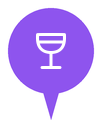
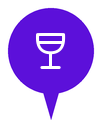
Nightlife, focus and fun pulled apart
After cafés and eats, the owner settled the next closest kinds. Measured
in CIEDE2000, taking the worst of normal, deuteranopic and protanopic
vision:

- Nightlife and focus dots were 1.6 apart, focus and fun 1.7, and
  nightlife and fun 2.6.
- The nightlife and focus pins were 1.8 apart.

Their hues stay, because they were solved against the company chips in
`trip.ts`. Lightness and saturation were searched over every step that
keeps a dot between 2.1 and 4.1:1 on white (the others' range) and at
3.2 or more on navy. Nightlife goes deepest because it is the night,
focus lighter, and fun between:

|          | nightlife | focus   | fun     | nearest |
|----------|-----------|---------|---------|---------|
| was dot  | #A98CD9   | #989AD7 | #C88BD0 | 1.6     |
| now dot  | #996CE5   | #A0A2EE | #AD74B4 | 8.9     |
| was pin  | #8E54EE   | #6468E2 | #B93FC9 | 1.8     |
| now pin  | #5C10DA   | kept    | kept    | 5.9     |

The search's best minimum was 9.8 with fun the darkest. 8.9 with
nightlife the darkest was taken instead.

The pin rule's lightest step put all three pins at one luminance, so
the nightlife pin moves darker. It goes to the depth the cafés pin
already has (8.3:1 for its white glyph) and is named as the rule's
second exception. Only the three nightlife pin images are redrawn, plus
the manifest.

Tests: `taxonomy.test.ts` holds the order of lightness, focus apart
from the other two, the nightlife pin apart from focus, and each hue.
[…]

diff --git a/app/src/lib/categories.ts b/app/src/lib/categories.ts
@@ -53,8 +53,9 @@ export type CategoryStyle = {
    * Hue is identical to `color`, which is what makes this the same colour
    * rather than a second one. Solved in that order and no other: exact
    * hue first, then saturation at or above 55%, then the lightest
-   * remaining step whose glyph still clears 4.5:1 — save `cafes`, taken
-   * darker to stand off `eats` (see above `STYLES`). Never against a fixed
+   * remaining step whose glyph still clears 4.5:1 — save `cafes` and
+   * `nightlife`, taken darker to stand off `eats` and `focus` (see above
+   * `STYLES`). Never against a fixed
    * lightness — blue and green carry more luminance at the same HSL step
    * and would hand `nature` a 2.32:1 glyph. `views` lands at 6.63 because
    * the lighter candidates on its line miss the hue by a fifth of a
@@ -107,6 +108,31 @@ export type Category = typeof CATEGORY_ORDER[number];
 // rule under `pin` gives: the lightest step on its line, #A36A2F, was 0.5
 // from the eats pin. Coffee is the kind the catalog holds most of, and
 // a darker brown is still coffee.
+//
+// ── the three purples, pulled apart (owner, 12 Nov 2026) ──
+//
+// Nightlife, focus and fun sit at 263°, 238° and 293°, at one pastel
+// lightness. Measured the same way, they were the closest kinds in the
+// table: nightlife–focus 1.6 apart, focus–fun 1.7, nightlife–fun 2.6, and
+// the nightlife and focus pins 1.8. Their hues stay where they are, since
+// they were solved against the company chips in `trip.ts`. They are
+// pulled apart in lightness and saturation, searched over every step that
+// keeps a dot between 2.1 and 4.1:1 on white (the range the other dots
+// already span) and at 3.2 or more on navy, the darkest page a dot sits
+// on. Nightlife goes deepest because it is the night; focus goes lighter,
+// a periwinkle; fun sits between, an orchid:
+//
+//              nightlife          focus             fun        nearest, any vision
+//   was dot    #A98CD9            #989AD7           #C88BD0          1.6
+//   now dot    #996CE5            #A0A2EE           #AD74B4          8.9
+//   was pin    #8E54EE            #6468E2           #B93FC9          1.8
+//   now pin    #5C10DA            (kept)            (kept)           5.9
+//
+// The search's best minimum was 9.8, with fun the darkest of the three;
+// 8.9 with nightlife the darkest was taken instead. Only the nightlife pin
+// moves: the rule's lightest step put the three pins at one luminance. It
+// goes to the darkness the cafés pin already has, 8.3:1 for its glyph,
+// the one other exception to the rule.
 const STYLES = {
   cafes: {
     en: 'Cafés', vi: 'Cà phê', ja: 'カフェ', zh: '咖啡馆', hant: '咖啡館', icon: 'cafe-outline', color: '#A6733F',
@@ -139,8 +165,8 @@ const STYLES = {
     terms: ['market', 'shop', 'store', 'mall', 'souvenir', 'chợ', 'cửa hàng', 'mua sắm', '市場', '市场', '购物', '購物'],
   },
   nightlife: {
-    en: 'Nightlife', vi: 'Về đêm', ja: 'ナイトライフ', zh: '夜生活', hant: '夜生活', icon: 'wine-outline', color: '#A98CD9',
-    pin: '#8E54EE',
+    en: 'Nightlife', vi: 'Về đêm', ja: 'ナイトライフ', zh: '夜生活', hant: '夜生活', icon: 'wine-outline', color: '#996CE5',
+    pin: '#5C10DA',
     terms: ['bar', 'pub', 'club', 'beer', 'cocktail', 'drinks', 'quán bar', 'bia', 'nhậu', 'về đêm', 'バー', '酒吧'],
   },
   // The two 2026-08 additions, and why their hues are what they are.
@@ -158,12 +184,12 @@ const STYLES = {
   // reel, for `fun`: a cinema is what the catalog holds today, but the key
   // has to be as true for bowling or a show as for a screen.
   focus: {
-    en: 'Focus', vi: 'Học tập', ja: '作業', zh: '学习办公', hant: '學習辦公', icon: 'book-outline', color: '#989AD7',
+    en: 'Focus', vi: 'Học tập', ja: '作業', zh: '学习办公', hant: '學習辦公', icon: 'book-outline', color: '#A0A2EE',
     pin: '#6468E2',
     terms: ['work', 'study', 'laptop', 'wifi', 'coworking', 'quiet', 'làm việc', 'học bài', 'học tập', 'ngồi lâu', '作業', '勉強', '自习', '办公', '自習', '辦公'],
   },
   fun: {
-    en: 'Fun', vi: 'Giải trí', ja: 'エンタメ', zh: '娱乐', hant: '娛樂', icon: 'ticket-outline', color: '#C88BD0',
+    en: 'Fun', vi: 'Giải trí', ja: 'エンタメ', zh: '娱乐', hant: '娛樂', icon: 'ticket-outline', color: '#AD74B4',
     pin: '#B93FC9',
     terms: ['cinema', 'movie', 'film', 'karaoke', 'bowling', 'arcade', 'show', 'rạp phim', 'rạp', 'phim', 'xem phim', 'giải trí', '映画館', '映画', '电影院', '电影', '電影院', '電影'],
   },

diff --git a/app/src/lib/taxonomy.test.ts b/app/src/lib/taxonomy.test.ts
@@ -246,6 +246,31 @@ describe('cafés and eats', () => {
   });
 });
 
+// The three purples (owner, 12 Nov 2026): nightlife, focus and fun sat
+// 1.6–2.6 apart at one lightness. Their hues stay; nightlife goes deepest,
+// focus lightest, fun between — see the note above `STYLES`. Nightlife and
+// fun are apart by hue (30°) rather than by lightness, so the lightness
+// holds are on focus, the one that sat between them.
+describe('the three purples', () => {
+  it('step from the night down to focus, on the page', () => {
+    const l = (k: keyof typeof CATEGORIES) => contrast(CATEGORIES[k].color, WHITE);
+    expect(l('nightlife')).toBeGreaterThan(l('fun'));
+    expect(l('fun')).toBeGreaterThan(l('focus'));
+    expect(contrast(CATEGORIES.nightlife.color, CATEGORIES.focus.color)).toBeGreaterThanOrEqual(1.5);
+    expect(contrast(CATEGORIES.fun.color, CATEGORIES.focus.color)).toBeGreaterThanOrEqual(1.45);
+  });
+
+  it('keep the night’s pin apart from focus’s on the map', () => {
+    expect(contrast(CATEGORIES.nightlife.pin, CATEGORIES.focus.pin)).toBeGreaterThanOrEqual(1.8);
+  });
+
+  it('stay on their own hues', () => {
+    expect(hue(CATEGORIES.nightlife.color)).toBeCloseTo(262.3, 0);
+    expect(hue(CATEGORIES.focus.color)).toBeCloseTo(238.5, 0);
+    expect(hue(CATEGORIES.fun.color)).toBeCloseTo(293.4, 0);
+  });
+});
+
 describe('the map pin palette', () => {
   it('gives every category in the filter row a fill', () => {
     for (const key of CATEGORY_ORDER) {
